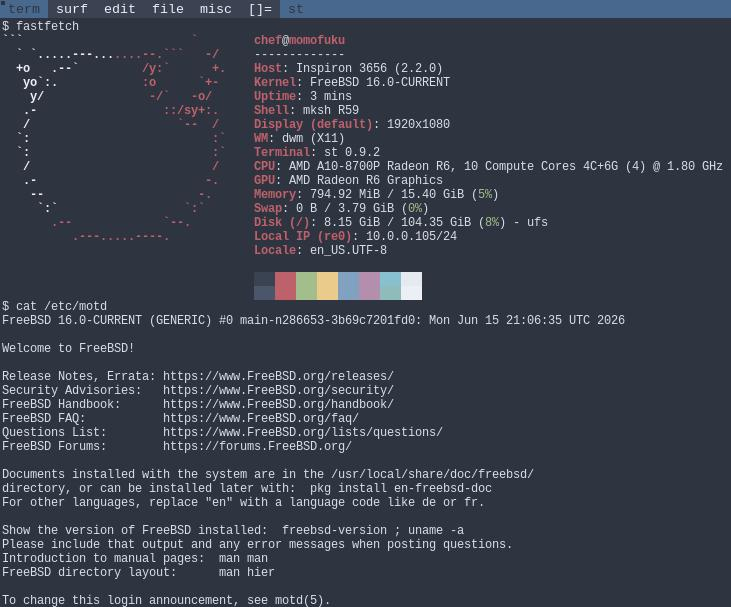
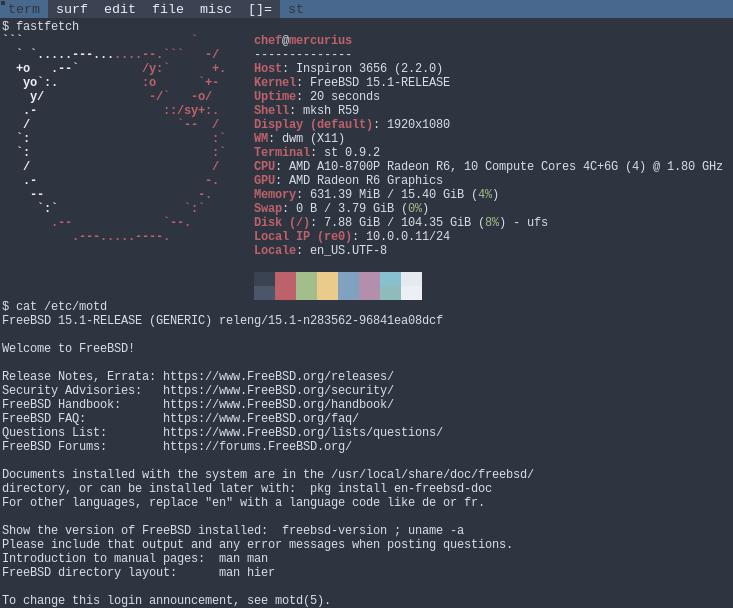
adds and tweaks

diff --git a/README.md b/README.md
@@ -1,6 +1,6 @@
-# OS: FreeBSD 16.0-CURRENT amd64
+# OS: FreeBSD 15.1-RELEASE amd64
 
-https://download.freebsd.org/snapshots/amd64/amd64/ISO-IMAGES/16.0/
+https://download.freebsd.org
 
 
 
